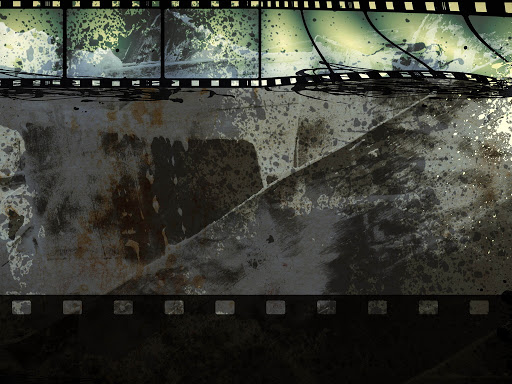
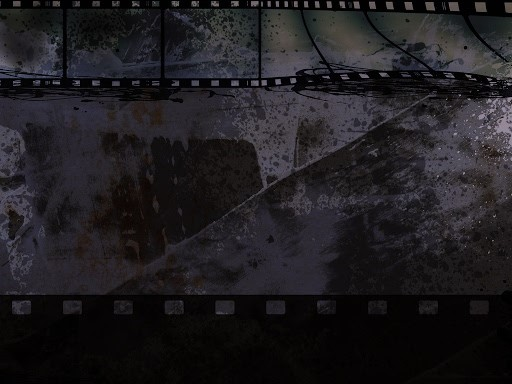
Added Movie Detail Page
when users select a movie from search they are now able to click the image and display details from that page

diff --git a/FilmFinderWebApp/wwwroot/css/searchmovie.css b/FilmFinderWebApp/wwwroot/css/searchmovie.css
@@ -66,12 +66,46 @@ img {
     background-image: url('../images/noposter.jpg');
     width: 200px;
     height: 300px;
-    border-radius: 10px
+    border-radius: 10px;
+    
 }
 
-.row{
-    margin: 10px;
-    text-align:center;
+.imagehover {
+    display:inline-block;
+    background-color: #a89292;
+    border-radius: 10px;
+}
+
+.imagehover img {
+    
+    opacity: 1;
+    transition: opacity .25s ease-in-out;
+    -moz-transition: opacity .25s ease-in-out;
+    -webkit-transition: opacity .25s ease-in-out;
+}
+
+.imagehover:hover img {
+    opacity: 0.4;
+    
+}
+
+.img-moviedetail {
+    width: 300px;
+    height: 450px;
+    border-radius: 10px;
+    float:left;
+
+      
+}
+
+
+.row {
+    margin-top: 80px;
+    margin-left: 10px;
+    margin-right: 10px;
+    margin-bottom: 60px;
+    text-align: center;
+    min-height: 240px;
 }
 
 
@@ -82,12 +116,106 @@ h5 {
     margin-bottom: 20px;
 }
 
+h4{
+    color:white;
+}
 h3{
     color: white;
-    margin-left: 25px;
-    margin-bottom: 30px;
+    font-size: 45px;
 }
 
+p{
+    color:white;
+}
+
+
+span{
+    color: #dbb323;
+}
+
+.span_date {
+    color: #bfbfbf;
+    font-size: 15px;
+    
+}
+
+.searchresults{
+    margin-left:50px;
+    margin-top: 20px;
+}
+
+.resultTotal {
+    margin-top: 5px;
+    display: inline-flex;
+    flex-direction: row;
+    flex-wrap: wrap;
+    border-radius: 10px;
+    border: 2px solid #dbb323;
+    padding: 10px;
+    max-width: 200px;
+}
+
+.resultTotalColour {
+    color: #a89292;
+}
+
+.moviedetail_container{
+    display: flex;
+}
+
+.movieinfo_container {
+    background-color: #161617;
+    border-radius: 10px;
+    border: 2px solid #dbb323;
+    padding-top: 15px;
+    padding-left: 40px;
+    padding-right: 40px;
+    padding-bottom: 15px;
+    margin-left: 70px;
+    margin-right: 30px;
+    
+}
+
+.genre_container{
+display:flex;
+margin-top: 5px;
+}
+
+.genres {
+    color: #a89292;
+    margin-top: 3px;
+    margin-left: 15px;
+    font-size: 18px;
+}
+
+.cast_container {
+    background-color: #161617;
+    border-radius: 10px;
+    border: 2px solid #dbb323;
+    padding-top: 15px;
+    padding-left: 40px;
+    padding-right: 40px;
+    padding-bottom: 15px;
+    margin-top: 50px;
+    margin-right: 30px;
+}
+
+/*Carousel Styling*/
+.carousel {
+    margin-bottom: 0;
+    padding: 0 40px 30px 40px;
+}
+
+.carousel-control {
+    color: #dbb323;
+    font-size: 40px;
+    padding: 50px;
+    
+}
+
+    .carousel-control:hover {
+        color: #a89292;
+    }
 
 
 

diff --git a/FilmFinderWebApp/wwwroot/js/site.js b/FilmFinderWebApp/wwwroot/js/site.js
@@ -2,3 +2,18 @@
 // for details on configuring this project to bundle and minify static web assets.
 
 // Write your JavaScript code.
+
+//Disable Button when no search text
+$(document).ready(function () {
+    $('Button[type="submit"]').attr('disabled', true);
+    $('input[type="text"],textarea').on('keyup', function () {
+        var text_value = $('input[name="searchString"]').val();
+        if ( text_value != '') {
+            $('Button[type="submit"]').attr('disabled', false);
+        } else {
+            $('Button[type="submit"]').attr('disabled', true);
+        }
+    });
+});
+
+//Carousel

diff --git a/FilmFinderWebApp/wwwroot/css/site.css b/FilmFinderWebApp/wwwroot/css/site.css
@@ -63,10 +63,8 @@ body {
     /* Margin bottom by footer height */
     margin-bottom: 60px;
     padding-bottom: 20px;
-    height: inherit;
-    background-image: url('../images/filmbackground3.jpg');
-    background-repeat:no-repeat;
-    background-size:cover;
+    height: auto;
+    background-image: url('../images/filmbackground2.jpg');
 }
 .footer {
   position: absolute;

diff --git a/FilmFinderWebApp/wwwroot/lib/bootstrap/dist/css/bootstrap.css b/FilmFinderWebApp/wwwroot/lib/bootstrap/dist/css/bootstrap.css
@@ -4886,8 +4886,8 @@ input[type="button"].btn-block {
 .page-item.active .page-link {
     z-index: 1;
     color: #fff;
-    background-color: #ffc800;
-    border-color: #ffc800;
+    background-color: #c99504;
+    border-color: #c99504;
 }
 
 .page-item.disabled .page-link {

diff --git a/FilmFinderWebApp/Controllers/MovieController.cs b/FilmFinderWebApp/Controllers/MovieController.cs
@@ -17,6 +17,7 @@ namespace FilmFinderWebApp.Controllers
 {
     public class MovieController : Controller
     {
+        //Index Controller
         public async Task<IActionResult> Index()
         {
  
@@ -24,9 +25,17 @@ namespace FilmFinderWebApp.Controllers
             return View();
         }
 
+        //SearchMovie Controller
         public async Task<IActionResult> SearchMovie(string searchString, int? page)
         {
+
             TMDbClient client = new TMDbClient("02214396be00b0615b4005941508943d");
+
+            if(searchString == null)
+            {
+                searchString = "&! Invalid Search : Must Enter In Text !&";
+            }
+            ViewData["Query"] = searchString;
 
             var pageNumber = page ?? 1;
 
@@ -35,6 +44,16 @@ namespace FilmFinderWebApp.Controllers
             return View(await FetchMovies(client, searchString, pageNumber));
         }
 
+        //MovieDetail Controller
+        public async Task<IActionResult> MovieDetails(int movieId)
+        {
+            TMDbClient client = new TMDbClient("02214396be00b0615b4005941508943d");
+
+            return View(await FetchMovieDetails(client, movieId));
+        }
+
+
+        //Fetch Json
         private static async Task FetchConfig(TMDbClient client)
         {
             FileInfo configJson = new FileInfo("config.json");
@@ -55,12 +74,10 @@ namespace FilmFinderWebApp.Controllers
             }
         }
 
-
+        //Fetch Movies with search string
         private static async Task<PagedResult<Movie>> FetchMovies(TMDbClient client, string query, int page)
-        {      
+        {
 
-            
-            
             SearchContainer<SearchMovie> results = await client.SearchMovieAsync(query, page);
 
             var getMovies = (from result in results.Results
@@ -69,12 +86,11 @@ namespace FilmFinderWebApp.Controllers
                                  Title = result.Title,
                                  PosterPath = result.PosterPath,
                                  Id = result.Id
-                              
-                               
+
                              }).ToList().Select(p => new Movie()
                              {
-                                 Title = p.Title,                              
-                                 PosterPath = "https://image.tmdb.org/t/p/w200/"+ p.PosterPath,
+                                 Title = p.Title,
+                                 PosterPath = "https://image.tmdb.org/t/p/w200/" + p.PosterPath,
                                  Id = p.Id
                              });
 
@@ -84,13 +100,19 @@ namespace FilmFinderWebApp.Controllers
                 TotalItems = results.TotalResults,
                 PageNumber = page,
                 PageSize = 20
-            };
-
-            
+            };     
 
             return pagedMovie;
         }
 
+        //Fetch movie details for movie detail view
+        private static async Task<Movie> FetchMovieDetails(TMDbClient client, int movieId)
+        {
+            Movie movieDetails = await client.GetMovieAsync(movieId, MovieMethods.Credits);
 
+            return movieDetails;
+        }
     }
+    
+
 }

diff --git a/FilmFinderWebApp/ViewComponents/CastViewComponent.cs b/FilmFinderWebApp/ViewComponents/CastViewComponent.cs
@@ -1,0 +1,22 @@
+using Microsoft.AspNetCore.Mvc;
+using System;
+using System.Collections.Generic;
+using System.Linq;
+using System.Threading.Tasks;
+using TMDbLib.Client;
+using TMDbLib.Objects.Movies;
+
+namespace FilmFinderWebApp.Component
+{
+    public class CastViewComponent : ViewComponent 
+    {
+        public async Task<IViewComponentResult> InvokeAsync(int movieId)
+        {
+            TMDbClient client = new TMDbClient("02214396be00b0615b4005941508943d");
+
+            Movie movieDetails = await client.GetMovieAsync(movieId, MovieMethods.Credits);
+
+            return View(movieDetails);
+        }
+    }
+}
